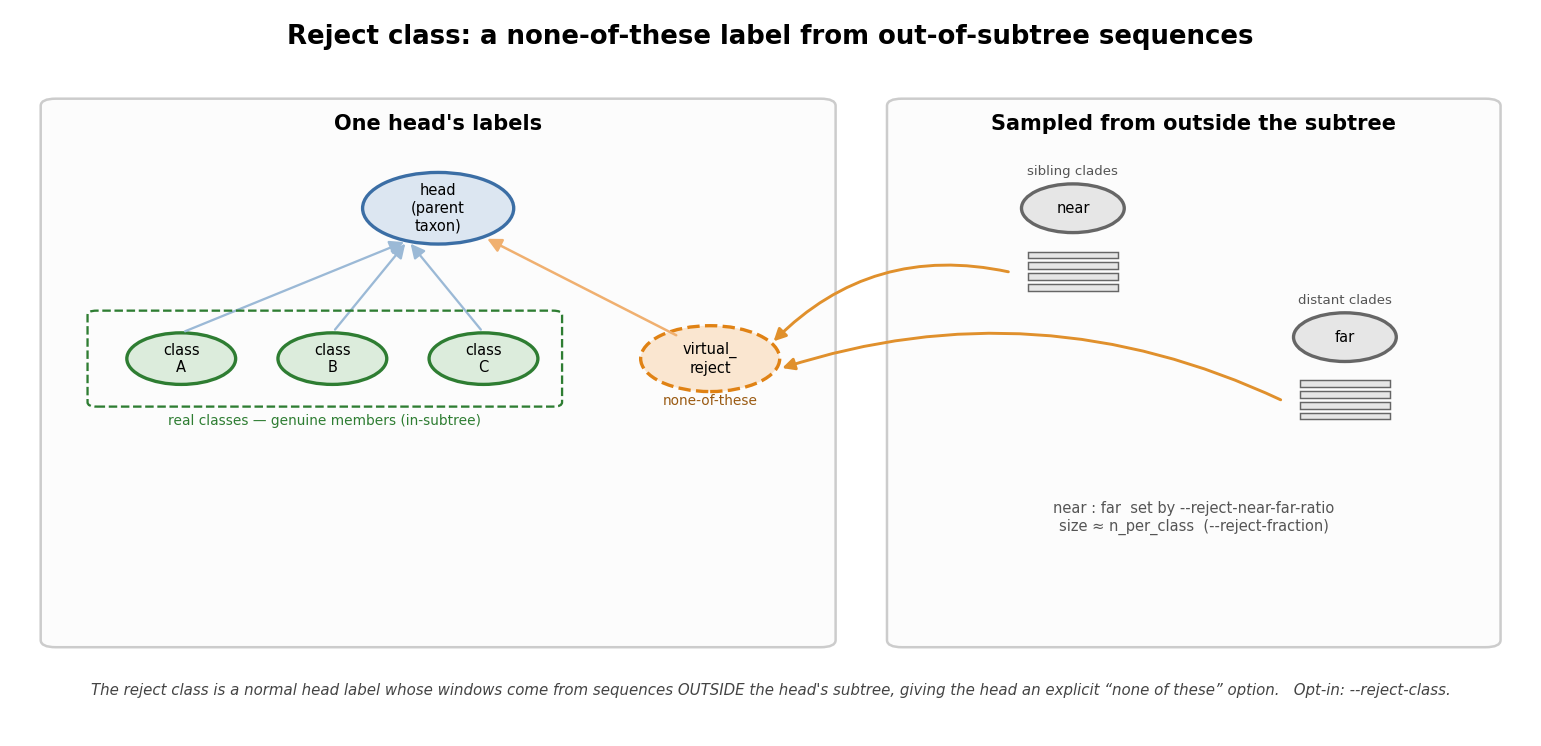
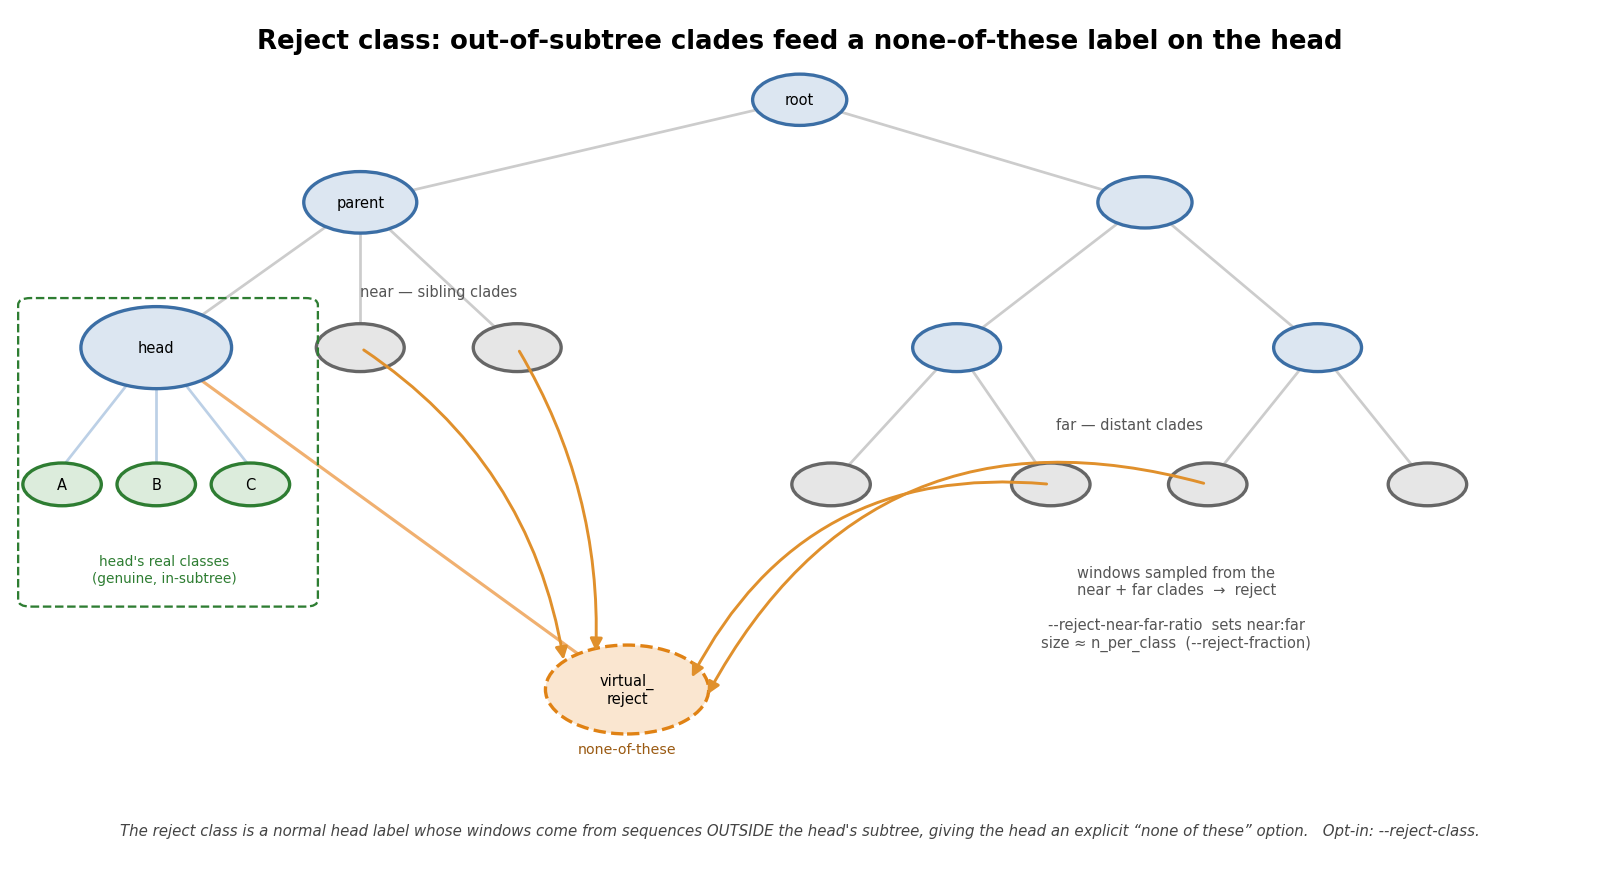
docs: redraw reject-class figure as a taxonomy tree
Replace the near/far "blob" panels with an actual tree: root -> head's parent
(+ sibling clades = near) and a separate, more-branched distant subtree (= far),
with arrows from the near and far clades feeding the head's virtual_reject label.
Only the head's own parent is labelled "parent" (the distant internal nodes are
unlabelled, so they don't read as ancestors of the head); the green dashed box
encloses the head's real classes and its caption.

diff --git a/docs/make_figures.py b/docs/make_figures.py
@@ -796,61 +796,73 @@ def fig_reject_bucket() -> None:
 
     Unlike the other virtual buckets (which absorb a parent's own
     under-supported children), the reject class is fed by sequences sampled
-    from *outside* the head's subtree: near (nearest-ancestor siblings) + far
-    (the rest). It gives the head an explicit none-of-these label.
+    from *outside* the head's subtree — near (nearest-ancestor sibling clades)
+    and far (clades elsewhere in the tree) — shown here on the taxonomy tree
+    with arrows feeding the head's reject label.
     """
-    fig, ax = _canvas(13, 6.2)
-    ax.text(50, 96, "Reject class: a none-of-these label from out-of-subtree "
-            "sequences", ha="center", fontsize=12.5, weight="bold")
+    fig, ax = _canvas(13.5, 7.4)
+    ax.text(50, 96, "Reject class: out-of-subtree clades feed a none-of-these "
+            "label on the head", ha="center", fontsize=12.5, weight="bold")
 
-    # ---- Left: the head and its labels (real classes + the reject class) ----
-    ax.add_patch(FancyBboxPatch((2, 12), 52, 76,
-                 boxstyle="round,pad=0.3,rounding_size=1.0",
-                 fc="#fcfcfc", ec="#cccccc", lw=1.2))
-    ax.text(28, 84, "One head's labels", ha="center", fontsize=10, weight="bold")
+    def edge(p1, p2, color="#cccccc", lw=1.3):
+        ax.plot([p1[0], p2[0]], [p1[1], p2[1]], color=color, lw=lw, zorder=0)
 
-    _node(ax, 28, 73, "head\n(parent\ntaxon)", BLUE, r=5)
+    # ---- taxonomy tree backbone (head's lineage on the left, a distant
+    #      branch on the right; only the head's own parent is labelled) ----
+    root = (50, 90)
+    par, mid = (22, 78), (72, 78)            # par = head's parent; mid = unrelated branch
+    edge(root, par); edge(root, mid)
+    _node(ax, *root, "root", BLUE, r=3.0)
+    _node(ax, *par, "parent", BLUE, r=3.6)
+    _node(ax, *mid, "", BLUE, r=3.0)
 
-    for cx, lab in [(11, "class\nA"), (21, "class\nB"), (31, "class\nC")]:
-        _node(ax, cx, 52, lab, GREEN, r=3.6)
-        _arrow(ax, (cx, 55.6), (26, 68.5), color="#9bb9d6", lw=1.1)
-    ax.add_patch(FancyBboxPatch((5, 45.5), 31, 13,
-                 boxstyle="round,pad=0.2,rounding_size=0.6",
+    head, sibA, sibB = (9, 61), (22, 61), (32, 61)
+    m1, m2 = (60, 61), (83, 61)
+    for child in (head, sibA, sibB):
+        edge(par, child)
+    for child in (m1, m2):
+        edge(mid, child)
+    _node(ax, *m1, "", BLUE, r=2.8)
+    _node(ax, *m2, "", BLUE, r=2.8)
+    _node(ax, *sibA, "", GREY, r=2.8)
+    _node(ax, *sibB, "", GREY, r=2.8)
+    _node(ax, *head, "head", BLUE, r=4.8)
+
+    f1, f2, f3, f4 = (52, 45), (66, 45), (76, 45), (90, 45)
+    edge(m1, f1); edge(m1, f2); edge(m2, f3); edge(m2, f4)
+    for fc_ in (f1, f2, f3, f4):
+        _node(ax, *fc_, "", GREY, r=2.5)
+
+    ax.text(27, 67, "near — sibling clades", ha="center", fontsize=7, color="#555555")
+    ax.text(71, 51.5, "far — distant clades", ha="center", fontsize=7, color="#555555")
+
+    # ---- head's real classes (genuine, in-subtree) ----
+    for cx, lab in [(3, "A"), (9, "B"), (15, "C")]:
+        _node(ax, cx, 45, lab, GREEN, r=2.5)
+        edge(head, (cx, 47), color="#bcd0e6")
+    ax.add_patch(FancyBboxPatch((0.5, 31), 18.5, 35.5,
+                 boxstyle="round,pad=0.3,rounding_size=0.8",
                  fc="none", ec=GREEN, ls="--", lw=1.1))
-    ax.text(20.5, 42.8, "real classes — genuine members (in-subtree)",
-            ha="center", fontsize=6.6, color="#2e7d32")
+    ax.text(9.5, 35, "head's real classes\n(genuine, in-subtree)",
+            ha="center", va="center", fontsize=6.6, color="#2e7d32")
 
-    _node(ax, 46, 52, "virtual_\nreject", ORANGE, r=4.6, dashed=True)
-    _arrow(ax, (44, 55), (31, 69), color="#f0b070", lw=1.2)
-    ax.text(46, 45.5, "none-of-these", ha="center", fontsize=6.6, color="#9a5a12")
+    # ---- the reject label on the head, fed by near + far clades ----
+    reject = (39, 21)
+    edge(head, reject, color="#f0b070", lw=1.5)   # it is one of the head's labels
+    _node(ax, *reject, "virtual_\nreject", ORANGE, r=5.2, dashed=True)
+    ax.text(39, 13.5, "none-of-these", ha="center", fontsize=6.8, color="#9a5a12")
 
-    # ---- Right: negatives sampled from OUTSIDE the head's subtree ----
-    ax.add_patch(FancyBboxPatch((58, 12), 40, 76,
-                 boxstyle="round,pad=0.3,rounding_size=1.0",
-                 fc="#fcfcfc", ec="#cccccc", lw=1.2))
-    ax.text(78, 84, "Sampled from outside the subtree", ha="center",
-            fontsize=10, weight="bold")
+    _curve(ax, sibA, (35, 24), "#e0902c", rad=-0.22)
+    _curve(ax, sibB, (37, 25), "#e0902c", rad=-0.15)
+    _curve(ax, f2, (43, 22), "#e0902c", rad=0.34)
+    _curve(ax, f3, (44, 20), "#e0902c", rad=0.40)
 
-    def _bars(cx, top_y, n, color):
-        for j in range(n):
-            ax.add_patch(Rectangle((cx - 3, top_y - j * 1.5), 6, 0.95,
-                         fc=LIGHT.get(color, "#eee"), ec=color, lw=0.7))
+    ax.text(74, 26, "windows sampled from the\nnear + far clades  →  reject\n\n"
+            "--reject-near-far-ratio  sets near:far\n"
+            "size ≈ n_per_class  (--reject-fraction)",
+            ha="center", fontsize=7, color="#555555")
 
-    _node(ax, 70, 73, "near", GREY, r=3.4)
-    ax.text(70, 77.6, "sibling clades", ha="center", fontsize=6.4, color="#555")
-    _bars(70, 66, 4, GREY)
-    _curve(ax, (66, 64), (50, 54), "#e0902c", rad=0.28)
-
-    _node(ax, 88, 55, "far", GREY, r=3.4)
-    ax.text(88, 59.6, "distant clades", ha="center", fontsize=6.4, color="#555")
-    _bars(88, 48, 4, GREY)
-    _curve(ax, (84, 46), (50.5, 50.5), "#e0902c", rad=0.2)
-
-    ax.text(78, 28, "near : far  set by --reject-near-far-ratio\n"
-            "size ≈ n_per_class  (--reject-fraction)", ha="center",
-            fontsize=7, color="#555555")
-
-    ax.text(50, 5, "The reject class is a normal head label whose windows come "
+    ax.text(50, 4, "The reject class is a normal head label whose windows come "
             "from sequences OUTSIDE the head's subtree, giving the head an "
             "explicit “none of these” option.   Opt-in: --reject-class.",
             ha="center", fontsize=7.2, style="italic", color="#444444")